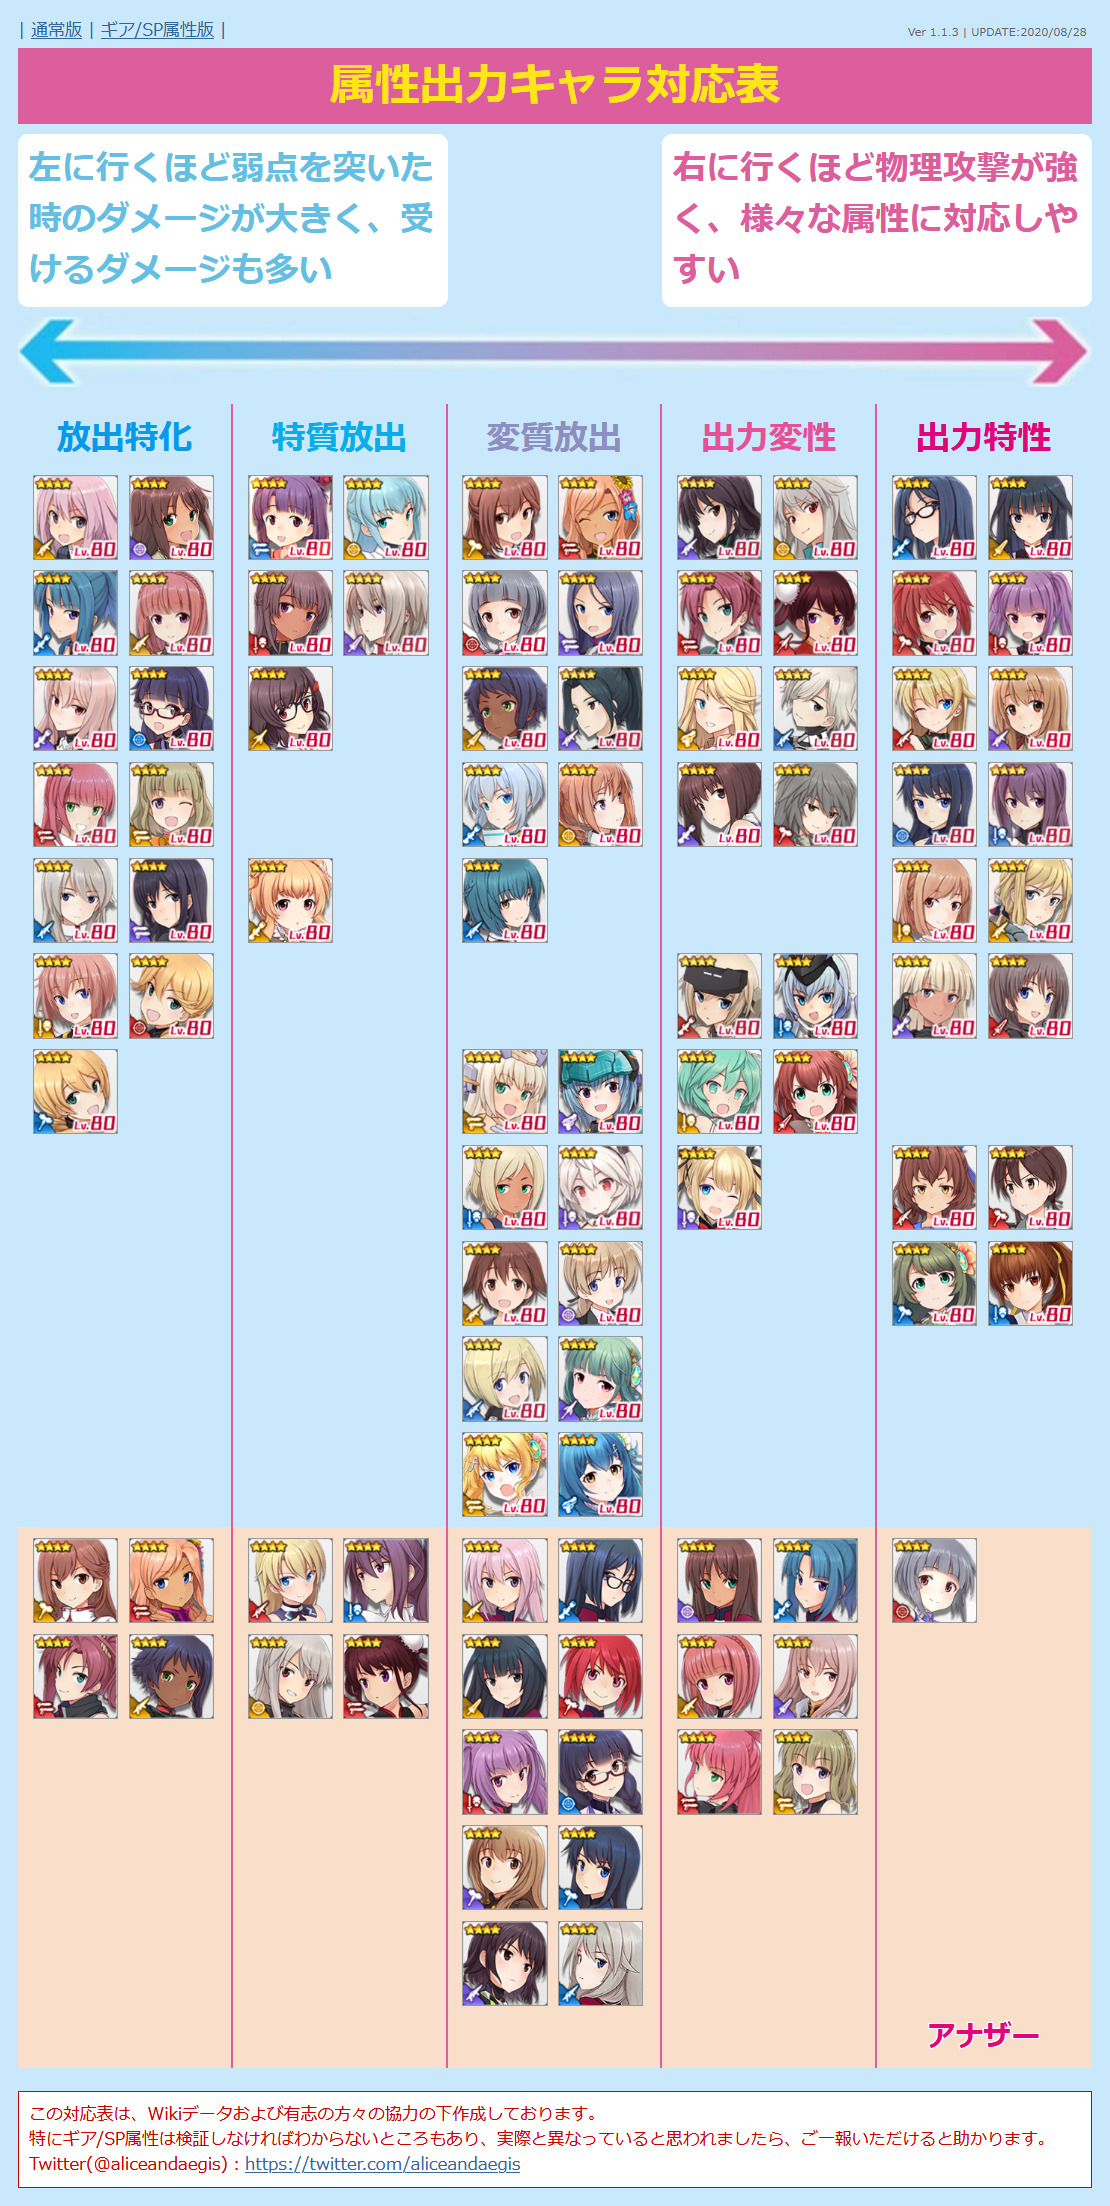
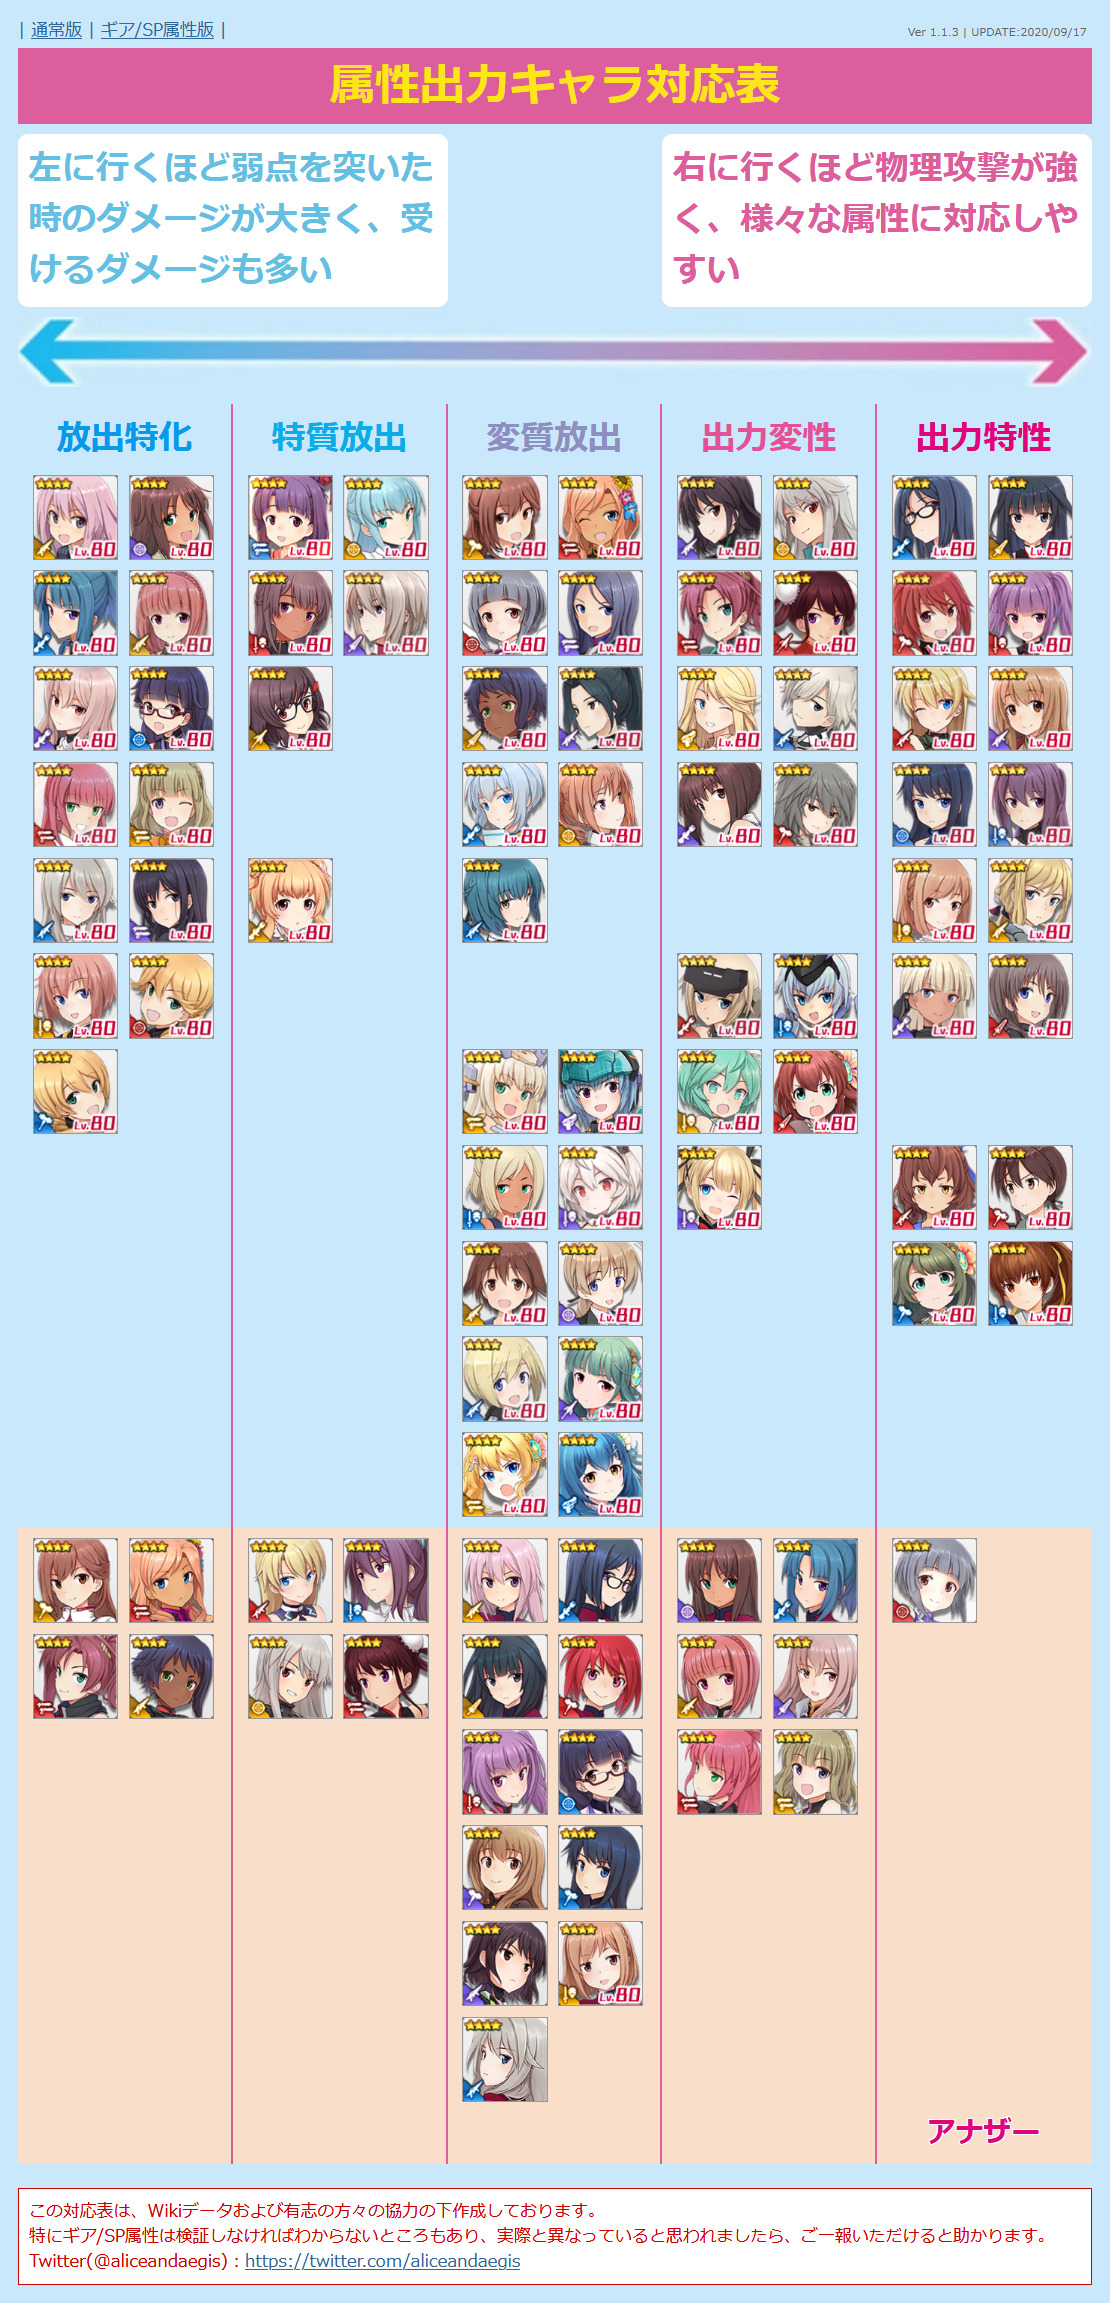
UPDATE chara data
・州天頃 椎奈/玉響を追加（画像は暫定でLv80のを利用。後日Lv表記無しのに更新予定）
・州天頃 椎奈のボトムスの属性に補助追加
・煌上花音、国枝 詩穂のギア属性から不明を削除

diff --git a/alice.html b/alice.html
@@ -12,7 +12,7 @@
   <script>
 
 /* 更新情報 必要に応じて書き換えてください */
-  var version = "Ver 1.1.3 | UPDATE:2020/08/30";
+  var version = "Ver 1.1.3 | UPDATE:2020/09/17";
 
 /*
   jsonファイルを外部に設置すると単にHTMLファイルを開いたときに動作しなくなるので当面はHTMLファイル内に
@@ -715,11 +715,25 @@
       "equip1": "1",
       "equip2": "4",
       "equip3": "3",
-      "equip4": "2",
+      "equip4": "25",
       "sp": "4",
       "attr": "1",
       "link": "https://wikiwiki.jp/alicegear/%E5%B7%9E%E5%A4%A9%E9%A0%83%E6%A4%8E%E5%A5%88",
       "category": ""
+    },
+    {
+      "id": "25",
+      "type": "3",
+      "src": "another-shiina.png",
+      "name": "州天頃 椎奈 / 玉響",
+      "equip1": "1",
+      "equip2": "4",
+      "equip3": "3",
+      "equip4": "25",
+      "sp": "45?",
+      "attr": "1",
+      "link": "https://wikiwiki.jp/alicegear/%E5%B7%9E%E5%A4%A9%E9%A0%83%E6%A4%8E%E5%A5%88%E7%8E%89%E9%9F%BF",
+      "category": "10"
     },
     {
       "id": "26",
@@ -1288,9 +1302,9 @@
       "name": "煌上 花音",
       "equip1": "2",
       "equip2": "3",
-      "equip3": "52?",
-      "equip4": "2?",
-      "sp": "2?",
+      "equip3": "52",
+      "equip4": "2",
+      "sp": "2",
       "attr": "1",
       "link": "https://wikiwiki.jp/alicegear/%E7%85%8C%E4%B8%8A%E8%8A%B1%E9%9F%B3",
       "category": "99"
@@ -1302,9 +1316,9 @@
       "name": "国枝 詩穂",
       "equip1": "2",
       "equip2": "3",
-      "equip3": "5?",
-      "equip4": "2?",
-      "sp": "2?",
+      "equip3": "5",
+      "equip4": "2",
+      "sp": "2",
       "attr": "4",
       "link": "https://wikiwiki.jp/alicegear/%E5%9B%BD%E6%9E%9D%E8%A9%A9%E7%A9%82",
       "category": "99"
